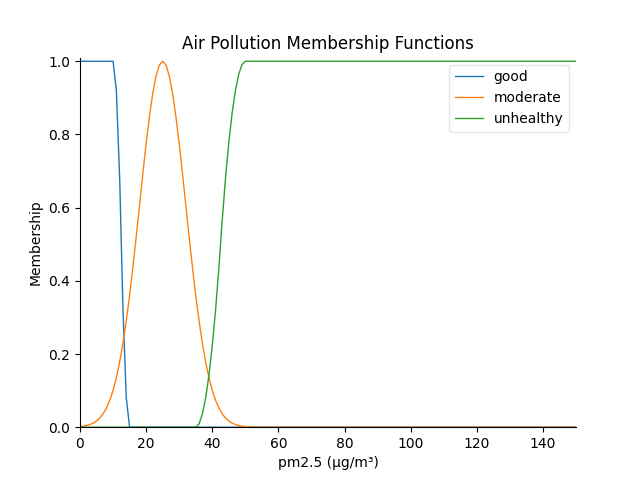
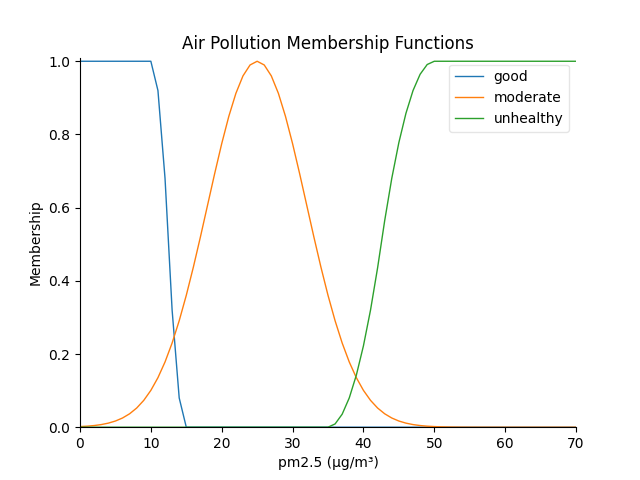
Changed universe of air_pollution

diff --git a/main/heatmap_utils.py b/main/heatmap_utils.py
@@ -7,7 +7,7 @@ from map import Map, Station
 MAX_PD = 151
 """Maximum value for population density (exclusive)\n
 Unit: µg/m³ of the pollutor pm2.5"""
-MAX_AP = 151
+MAX_AP = 71
 """Maximum value for air pollution (exclusive)\n
 Unit: inhabitants/ha""" 
 MAX_VC = 101
@@ -109,15 +109,19 @@ def generate_random_stations(n_stations: int, map_size: int, max_ap: int = MAX_A
         map_size:
             Length of map along one axis
         max_ap:
-            Maximum value for randomly drawn air pollution data
+            Maximum value for randomly drawn air pollution data. Should be less than 151.
         max_pd:
-            Maximum value for randomly drawn population density data
+            Maximum value for randomly drawn population density data. Should be less than 151.
         max_vc:
-            Maximum value for randomly drawn vegetation cover data
+            Maximum value for randomly drawn vegetation cover data. Should be less than 101.
     
     Returns:
         An np.array of stations
     """    
+    assert max_ap <= MAX_AP, f"max_ap can not be >{MAX_AP}"
+    assert max_pd <= MAX_PD, f"max_pd can not be >{MAX_PD}"
+    assert max_vc <= MAX_VC, f"max_vc can not be >{MAX_VC}"
+
     # Random values for stations
     random_locations = generate_unique_random_locations(n_locations=n_stations, map_size=map_size)
     random_aq = np.random.randint(low=0, high=max_ap, size=n_stations)
